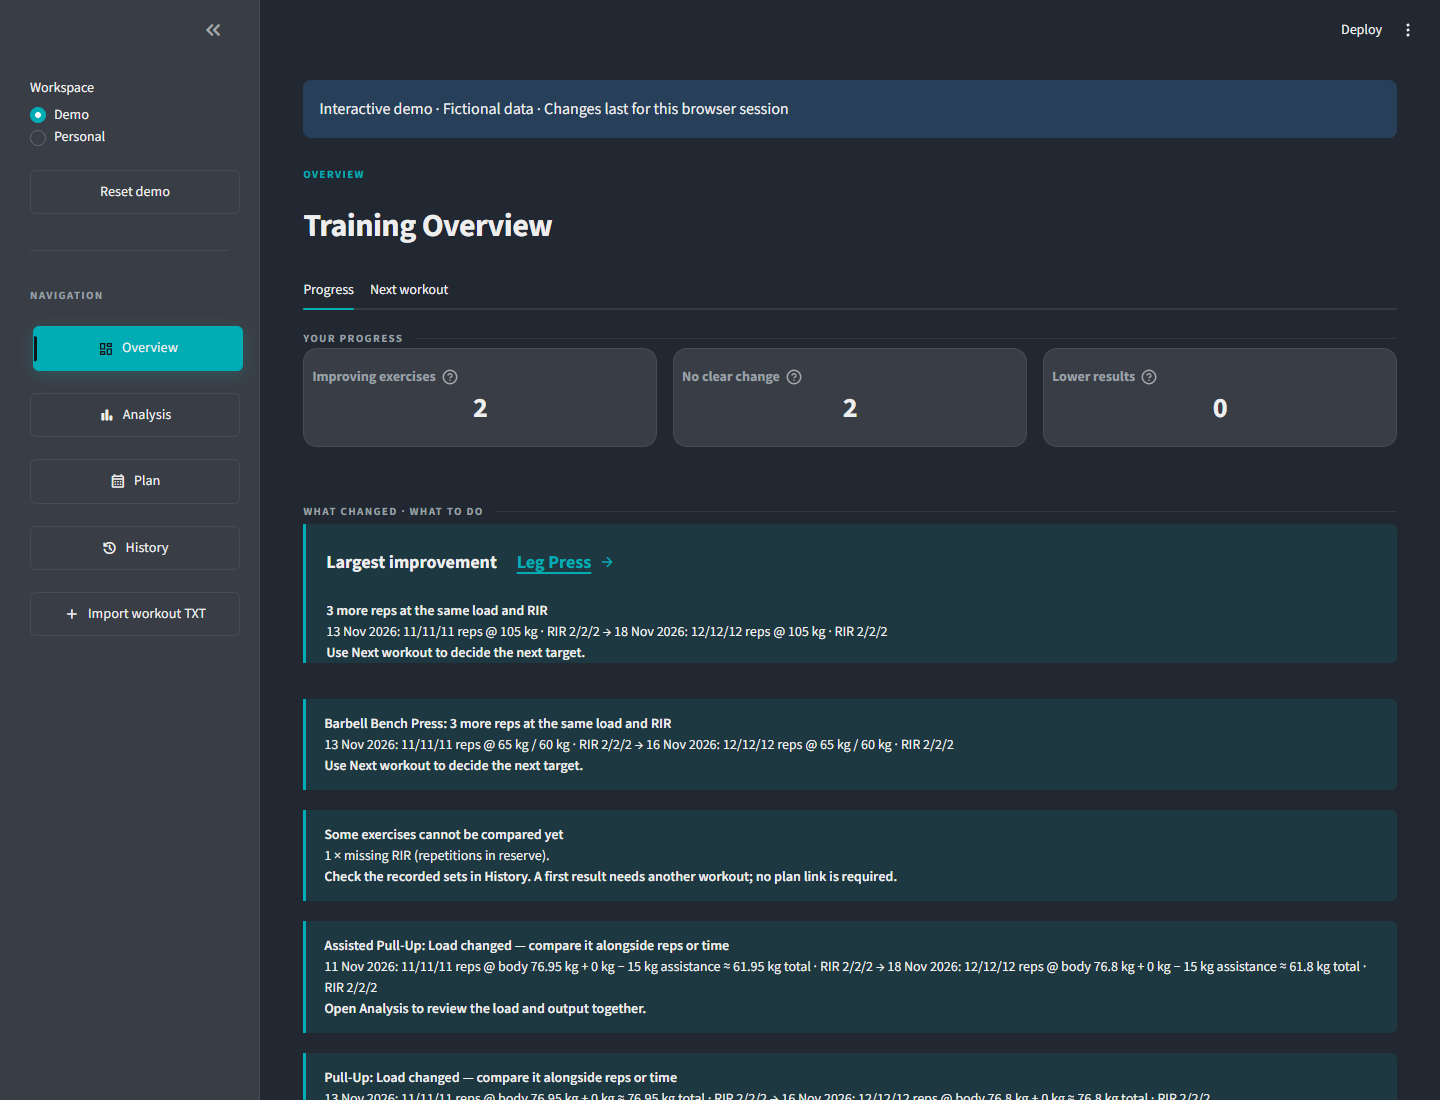
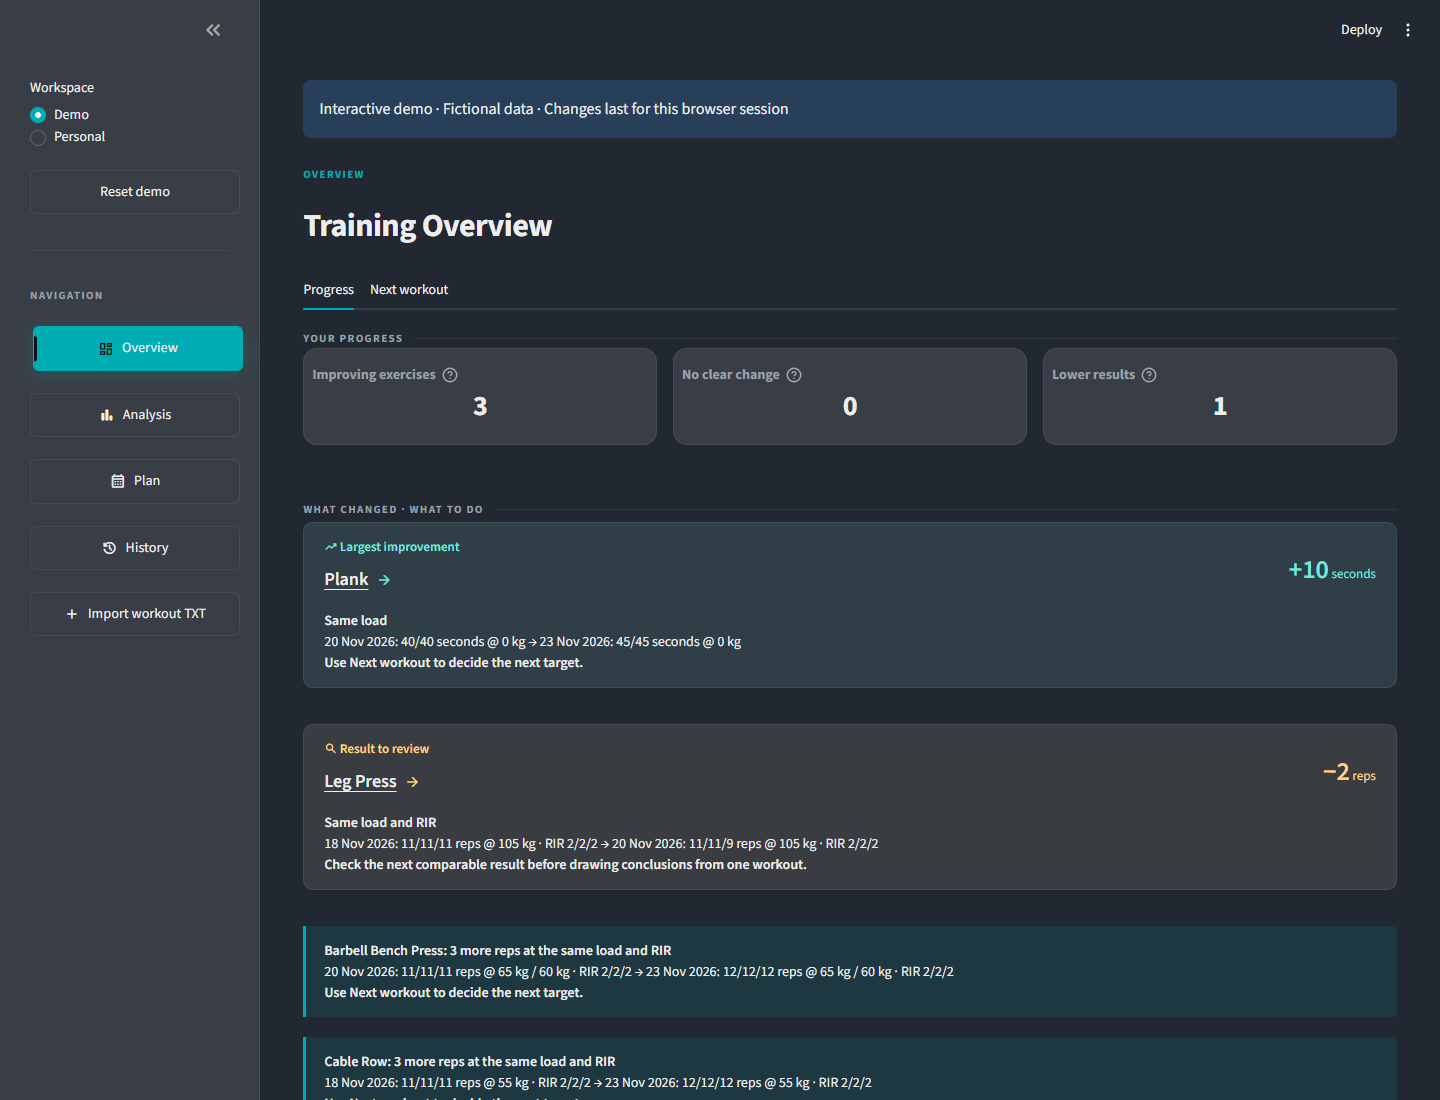
Refresh README and application screenshots

diff --git a/docs/user-guide.md b/docs/user-guide.md
@@ -111,14 +111,20 @@ convention. This window-based estimate differs from Overview's two-session compa
 unchanged load and recorded RIR. Overview exercise links open **Exercises**
 directly, with the exact exercise and its full history.
 
-**Muscles** shows the heat map followed directly by the set-allocation chart,
-without a view switch or a separate Timed sets disclosure. **Body measurements** shows the selected measurement,
-summary and trend without a separate Measurement records table. Entry and
-correction remain available in History.
+**Muscles** compares weighted recorded sets per week with the active plan.
+Turn on **Show set breakdown** to see the direct and indirect set counts before
+weighting. The muscle map and set-allocation chart follow the table.
 
-**Plan** uses visible **Create a new plan**, **Edit plan** and **Delete plan** actions. Its editor
-keeps plan details, workouts/exercises and saving on one page. Training blocks
-are optional; an existing block is preserved when editing a version.
+**Body measurements** starts with the last four readings in the selected period
+when more readings are available. Choose **All readings** for the full period,
+or expand **Measurement values** to see the exact readings on the chart. The
+vertical scale follows the values shown. Add new measurements in History.
+
+**Plan** offers **Create a new plan**, **Edit plan** and **Delete plan**. The editor
+marks missing workout names, weekday conflicts and invalid exercise targets next
+to the relevant field. Fill in the workout name before adding another workout.
+Saving requires a plan name and valid workouts with exercises. Training blocks
+are optional. An existing block carries over when you edit a plan version.
 
 **History** has direct **Import workout TXT**, **Enter workout manually** and
 **Body measurements** actions. One entry panel opens at a time. Recorded sessions
@@ -126,10 +132,11 @@ occupy the main column below the full-width calendar. **Calendar settings**,
 including the active plan and planned-workout toggle, stay visible above the
 calendar grid. Each exercise keeps its set tiles on one horizontal row; scroll
 the list sideways on smaller screens. Every set shows its reserve; missing RIR
-stays unknown. **Link to plan** and **Tools** sit in each session's header.
-Tools opens a dialog with **Set labels**, **Set load**, **Replacements** and
-**Delete session** tabs. **Data settings**, beside the History title, opens
-exercise-wide conventions and unresolved historical loads.
+stays unknown. **Link to plan** or **Edit plan link** appears beside **Session tools**
+in each session's header. **Session tools** opens a dialog with **Set labels**,
+**Set load**, **Replacements** and **Delete session** tabs. **Data settings**,
+beside the History title, opens exercise-wide conventions and unresolved
+historical loads.
 
 ## Your first plan and workout
 
@@ -355,16 +362,15 @@ fictional data without a password. Personal asks for the owner's password before
 loading saved records. **Log out**, or switching back to Demo, closes personal
 access and clears the current editor state. See [hosted access setup](public-demo.md).
 
-Captured 20 November 2026 with Streamlit 1.66.1 and entirely fictional data
-generated by the public sandbox. Desktop browser width is 1440 px; mobile width
-is 390 px. Session detail images focus on the recorded-session panel. Images
-show the interface at capture time; see the
+Captured 25 November 2026 with Streamlit 1.66.1 and fictional sandbox data.
+Desktop browser width is 1440 px. Mobile width is 390 px. Session detail images
+focus on the recorded-session panel. For release scope, see the
 [v1.0.0 release notes](releases/v1.0.0.md) for release scope.
 
 <details>
 <summary>Recorded progress and next workout</summary>
 
-![Recorded progress and recent observations](../screenshots/Overview.png)
+![Recorded progress with signed changes in the highlighted results](../screenshots/Overview.png)
 ![Next workout and per-set targets](../screenshots/Next_Workout.png)
 
 </details>
@@ -383,8 +389,8 @@ show the interface at capture time; see the
 ![Exercise trend ranking](../screenshots/Analysis_Progress.png)
 ![Exercise progress](../screenshots/Analysis_Exercise.png)
 ![Plan consistency](../screenshots/Analysis_Consistency.png)
-![Muscle set allocation](../screenshots/Analysis_Muscles.png)
-![One body measurement](../screenshots/Analysis_Body.png)
+![Weekly muscle allocation with optional set breakdown and a muscle map](../screenshots/Analysis_Muscles.png)
+![Recent waist measurements and their exact values](../screenshots/Analysis_Body.png)
 
 </details>
 
@@ -392,7 +398,7 @@ show the interface at capture time; see the
 <summary>Plan and workout history</summary>
 
 ![Weekly plan summary](../screenshots/Plan.png)
-![One exercise edited at a time](../screenshots/Plan_Editor.png)
+![Creating a plan with inline workout name validation](../screenshots/Plan_Editor.png)
 ![Workout calendar and visible data settings action](../screenshots/History.png)
 ![Single-line sets and session header actions](../screenshots/History_Session.png)
 ![On-demand TXT import](../screenshots/History_Import.png)
@@ -413,7 +419,7 @@ show the interface at capture time; see the
 
 ![Stacked training overview](../screenshots/Overview_Mobile.png)
 ![Upcoming workout targets on mobile](../screenshots/Next_Workout_Mobile.png)
-![Compact exercise editor](../screenshots/Plan_Editor_Mobile.png)
+![Workout editor and required name on mobile](../screenshots/Plan_Editor_Mobile.png)
 ![Recorded session and header actions on mobile](../screenshots/History_Mobile.png)
 ![Exercise load settings on mobile](../screenshots/Data_Settings_Mobile.png)
 
@@ -436,6 +442,6 @@ Select a highlighted exercise name to open its full recorded history in Analysis
 This opens **Exercise progress** with **All time**, clearing an earlier date filter
 so it cannot hide the selected exercise.
 
-Highlighted observations place the bold label and underlined exercise name on one
-line when space permits. The accented name and right arrow open exercise history;
-long names wrap on narrow screens. Keyboard focus remains visible.
+Each highlight gives the change in reps or seconds a prominent signed number.
+The exercise name and arrow open its recorded history. Long names wrap on narrow
+screens, and keyboard focus remains visible.

diff --git a/README.md b/README.md
@@ -20,7 +20,7 @@ Demo browsing never connects to the personal database. Under the same URL,
 the owner can choose **Personal** and unlock the saved plan with a password.
 The application is designed for one owner, without registration or user accounts.
 
-![Recorded progress and recent observations](screenshots/Overview.png)
+![Recorded progress with signed changes in the highlighted results](screenshots/Overview.png)
 
 ## Problem and approach
 
@@ -39,9 +39,9 @@ Recommendations show their source sessions and explain missing evidence.
 
 | Page | Main workflow |
 | --- | --- |
-| **Overview** | Read recent observations and explained targets for the next workout. |
-| **Analysis** | Explore exercise performance, plan consistency, muscle allocation and body measurements. |
-| **Plan** | Build a weekly routine, save dated revisions, configure training blocks and delete plans. |
+| **Overview** | See highlighted changes in reps or seconds and explained targets for the next workout. |
+| **Analysis** | Explore exercise performance, plan consistency, weekly muscle allocation and recent or full measurement trends. |
+| **Plan** | Validate weekly routines, save dated revisions, configure training blocks and delete plans. |
 | **History** | Enter or import workouts, link sessions, confirm replacements and correct set/load details. |
 
 - **Versioned plans:** historical sessions retain their original prescription;
@@ -65,12 +65,16 @@ the [full screenshot gallery](docs/user-guide.md#screenshots).
 
 ## Interface
 
-Current desktop views, captured from the fictional demo on 20 November 2026.
-Session actions and exercise settings open in dialogs beside the workout history.
+Desktop views captured from the fictional demo on 25 November 2026.
+The plan editor marks fields that need attention. Muscle analysis offers an
+optional direct and indirect set breakdown, and measurement charts scale to the
+readings shown. Session actions and exercise settings open in dialogs from History.
 
-| Training plan | Recorded session |
+| Plan editor | Recorded session |
 | --- | --- |
-| ![Weekly plan and exercise targets](screenshots/Plan.png) | ![Single-line sets with plan linking and session tools](screenshots/History_Session.png) |
+| ![Plan editor with inline workout name validation](screenshots/Plan_Editor.png) | ![Recorded sets with plan linking and session tools](screenshots/History_Session.png) |
+| **Muscle allocation** | **Body measurements** |
+| ![Weekly muscle allocation with optional set breakdown and a muscle map](screenshots/Analysis_Muscles.png) | ![Recent waist measurements with an adaptive scale and exact readings](screenshots/Analysis_Body.png) |
 | **Session tools** | **Exercise load settings** |
 | ![Set corrections in the session tools dialog](screenshots/Session_Tools.png) | ![Exercise-wide load settings](screenshots/Data_Settings.png) |
 
@@ -106,7 +110,7 @@ boundaries, recommendation APIs and the data model.
 | --- | --- |
 | Application | Python 3.11 / 3.12, Streamlit |
 | Calculations | pandas, NumPy |
-| Charts and muscle map | Plotly, Pillow |
+| Charts and muscle map | Plotly, Vega-Lite, Pillow |
 | Storage | PostgreSQL / Supabase, SQLite local demo, SQLAlchemy, psycopg2 |
 | Quality and hosting | pytest, Ruff, GitHub Actions, Streamlit Community Cloud |
 
